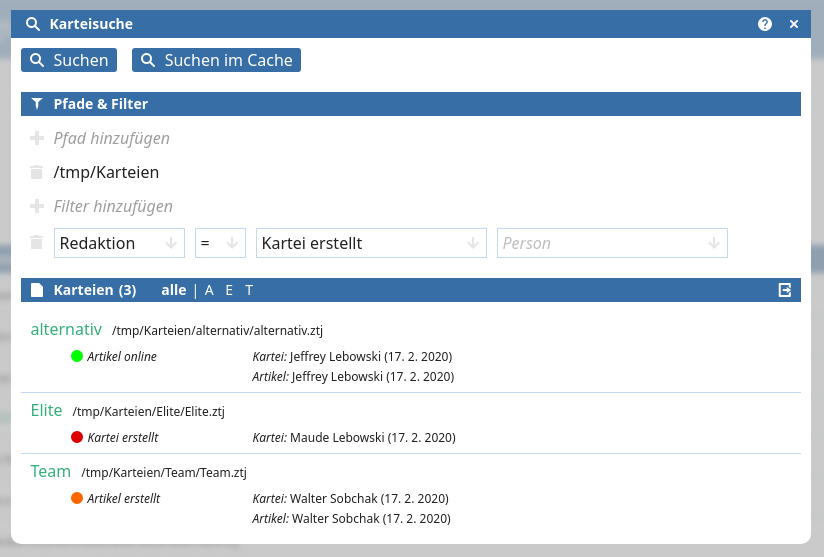
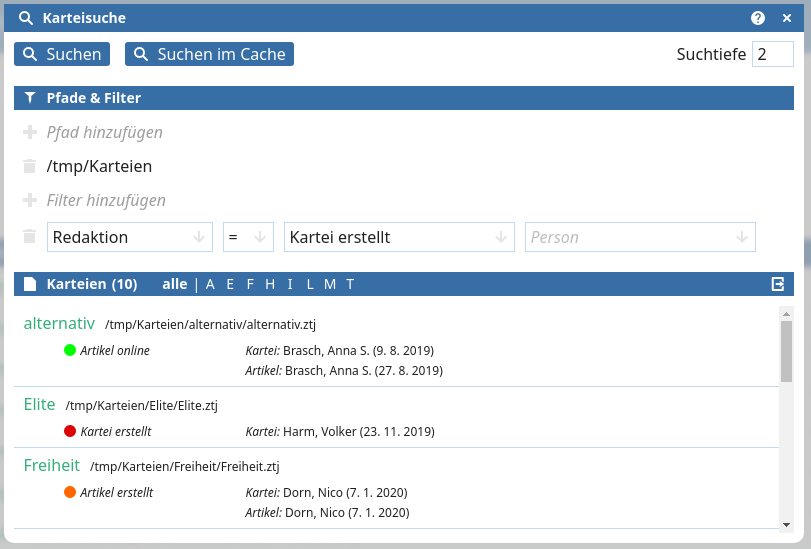
Feature: in der Karteisuche kann nun die Suchtiefe (Rekursion in Unterordner) begrenzt werden, um den Vorgang zu beschleunigen

Changed region(s): [[0.0, 0.0, 1.0, 0.9909]]

diff --git a/js/app/karteisuche.js b/js/app/karteisuche.js
@@ -9,6 +9,8 @@ let karteisuche = {
 		if (!document.getElementById("karteisuche-suche-laeuft").classList.contains("aus")) {
 			return;
 		}
+		// Suchtiefe aus den Optionen übernehmen
+		document.querySelector("#karteisuche-suchenTiefe").value = optionen.data.karteisuche.tiefe;
 		// Cache laden
 		const {ipcRenderer} = require("electron");
 		karteisuche.ztjCache = await ipcRenderer.invoke("ztj-cache-get");
@@ -164,6 +166,13 @@ let karteisuche = {
 			});
 		});
 	},
+	// speichert die Suchttiefe, also die Angaben darüber, wie viele Ordner
+	// in die Tiefe gegangen wird, um nach ZTJ-Dateien zu suchen;
+	//   1 = nur im angegebenen Ordner suchen
+	//   2 = bis zu einen Ordner tief gehen
+	//   3 = bis zu zwei Ordner tief gehen
+	//   ...
+	suchenTiefe: 0,
 	// speichert das Input-Element, das vor dem Start der Suche den Fokus hatte
 	suchenFokus: null,
 	// Suche vorbereiten
@@ -315,6 +324,7 @@ let karteisuche = {
 		// Dateien suchen
 		const fs = require("fs"),
 			fsP = fs.promises;
+		karteisuche.suchenTiefe = parseInt(document.querySelector("#karteisuche-suchenTiefe").value, 10);
 		setTimeout(async () => {
 			karteisuche.ztj = [];
 			if (pfade.length) {
@@ -324,7 +334,7 @@ let karteisuche = {
 					if (exists) {
 						try {
 							await fsP.access(ordner, fs.constants.R_OK); // Lesezugriff auf Basisordner? Wenn kein Zugriff => throw
-							await karteisuche.ordnerParsen(ordner);
+							await karteisuche.ordnerParsen(ordner, 1);
 						} catch (err) { // wahrscheinlich besteht kein Zugriff auf den Pfad
 							karteisuche.suchenAbschluss();
 							dialog.oeffnen({
@@ -584,7 +594,10 @@ let karteisuche = {
 	// findet alle Pfade in einem übergebenen Ordner
 	//   ordner = String
 	//     (Ordner, von dem aus die Suche beginnen soll)
-	ordnerParsen (ordner) {
+	//   suchtiefe = Number
+	//     (Tiefe gezählt vom Startordner aus; Startordner = 1)
+	ordnerParsen (ordner, suchtiefe) {
+		suchtiefe++;
 		return new Promise(async resolve => {
 			try {
 				const fsP = require("fs").promises,
@@ -592,7 +605,7 @@ let karteisuche = {
 				for (let i of files) {
 					const path = require("path"),
 						pfad = path.join(ordner, i);
-					await karteisuche.pfadPruefen(pfad);
+					await karteisuche.pfadPruefen(pfad, suchtiefe);
 				}
 				resolve(true);
 			} catch (err) { // Auslesen des Ordners fehlgeschlagen
@@ -603,7 +616,9 @@ let karteisuche = {
 	// überprüft einen übergebenen Pfad: Ordner oder ZTJ-Datei?
 	//   pfad = String
 	//     (Ordner, von dem aus die Suche beginnen soll)
-	pfadPruefen (pfad) {
+	//   suchtiefe = Number
+	//     (Tiefe gezählt vom Startordner aus; Startordner = 1)
+	pfadPruefen (pfad, suchtiefe) {
 		return new Promise(async resolve => {
 			try {
 				let stats; // Natur des Pfades?
@@ -613,8 +628,9 @@ let karteisuche = {
 					const fsP = require("fs").promises;
 					stats = await fsP.lstat(pfad);
 				}
-				if (stats?.isDirectory()) { // Ordner => parsen
-					await karteisuche.ordnerParsen(pfad);
+				if (stats?.isDirectory() && // Ordner => parsen
+						suchtiefe <= karteisuche.suchenTiefe) { // nur bis zu dieser Verschachtelungstiefe suchen
+					await karteisuche.ordnerParsen(pfad, suchtiefe);
 				} else if (/\.ztj$/.test(pfad)) { // ZTJ-Datei => merken
 					karteisuche.ztj.push({
 						pfad: pfad,

diff --git a/win/handbuch.html b/win/handbuch.html
@@ -3703,6 +3703,8 @@ Mustermann, Erika
 
 						<p>Um die Karteisuche zu starten, muss zunächst mindestens ein <b>Pfad</b> angegeben werden, von dem aus <abbr title="Zettel’s Traum JSON">ZTJ</abbr>-Dateien gesucht werden sollen. Klicken Sie auf <i>Pfad hinzufügen</i>, wird sich ein Dateidialog Ihres Betriebssystems öffnen. Bei einem Pfad handelt es sich um nichts Anderes als um die Wegangabe zu einem Ordner. Wählen Sie im sich öffnenden Dialog also einfach einen Ordner aus, in dem sich Karteien befinden. Von hier nimmt die Suche ihren Anfang. Ihren Anfang, denn gesucht wird immer rekursiv, <abbr title="das heißt">d. h.</abbr> Unterordner werden mit einbezogen.</p>
 
+						<p id="menueApp-karteisucheTiefe">Begrenzt wird die Rekursion in die Unterordner durch die Option <b><i>Suchtiefe</i></b>. Die hier eingetragene Zahl gibt an, wie tief beim Suchen in die Ordnerstruktur eingetaucht wird. Ist die Zahl niedriger, geht die Suche schneller, weil weniger tief gesucht wird. Steht die Option auf <i>1</i> findet keine Rekursion in Unterordner statt. Es werden nur diejenigen Ordner durchsucht, die angegeben wurden (<abbr title="siehe unten">s. u.</abbr>); alle Unterordner werden also ignoriert. Bei <i>2</i> wird eine Ebene tiefer gegangen; es werden also auch Unterordner durchsucht, die direkt im angegebenen Hauptordner liegen. Bei <i>3</i> werden auch Unterordner in den Unterordnern der Hauptordner durchsucht <abbr title="und so weiter">usw.</abbr></p>
+
 						<p>Allein einen Pfad anzugeben, reicht im Grunde schon aus. Sie können nun auf den <b>Button <i>Suchen</i></b> klicken: Alle Ordner und Unterordner in dem angegebenen Pfad werden nun durchsucht. Das basale Filterkriterium einer Karteisuche ist, dass eine Datei auf <span class="datei">*.ztj</span> endet. Zusätzlich wird überprüft, ob es sich bei den gefundenen Dateien wirklich um <abbr title="Zettel’s Traum JSON">ZTJ</abbr>-Dateien handelt oder ob sie nur so heißen. (Sie werden dafür kurz geöffnet.) Das Ergebnis der Suche wird dann im unteren Teil des Fensters unter dem Block <i>Karteien</i> angezeigt: eine Liste mit <abbr title="Zettel’s Traum JSON">ZTJ</abbr>-Dateien, die der Liste in der <a href="#menueApp-neuesFenster">Startansicht der App</a> ähnelt. Die Dateien öffnen sich auf Klick in einem neuen Programmfenster.</p>
 
 						<p>Falls Sie nicht die Kartei, sondern lieber den <b>Ordner öffnen</b> möchten, in dem sie liegt, führen Sie auf dem entsprechenden Listeneintrag <i>Rechtsklick &gt; Ordner öffnen</i> aus.</p>

diff --git a/index.html b/index.html
@@ -811,7 +811,11 @@
 				>Karteisuche<a href="#" class="icon-link icon-handbuch" title="Abschnitt im Handbuch öffnen" data-handbuch="menueApp-karteisuche"> </a><a href="#" class="overlay-schliessen icon-link icon-schliessen" title="Fenster schließen (Esc)"> </a></h2>
 			<div id="karteisuche-cont">
 				<p><input type="button" value="Suchen" id="karteisuche-suchen"
-					><input type="button" value="Suchen im Cache" id="karteisuche-suchenCache" class="aus"></p>
+					><input type="button" value="Suchen im Cache" id="karteisuche-suchenCache" class="aus"
+					><span id="karteisuche-suchenRechts"
+						><label for="karteisuche-suchenTiefe">Suchtiefe</label><input type="number" value="2" min="1" max="9" id="karteisuche-suchenTiefe"
+					></span
+				></p>
 				<h3><span class="icon-h icon-filter"> </span>Pfade &amp; Filter</h3>
 				<div id="karteisuche-filterblock">
 					<div id="karteisuche-pfade"></div>

diff --git a/js/app/init-app.js b/js/app/init-app.js
@@ -429,6 +429,10 @@ window.addEventListener("load", async () => {
 	// Karteisuche
 	document.getElementById("karteisuche-suchen").addEventListener("click", () => karteisuche.suchenPrep());
 	document.getElementById("karteisuche-suchenCache").addEventListener("click", () => karteisuche.suchenPrepZtj([]));
+	document.getElementById("karteisuche-suchenTiefe").addEventListener("input", function() {
+		optionen.data.karteisuche.tiefe = parseInt(this.value, 10);
+		optionen.speichern();
+	});
 	document.querySelector("#karteisuche-cont h3").addEventListener("click", () => karteisuche.filterUmschalten());
 	document.getElementById("karteisuche-add-filter").addEventListener("click", () => karteisuche.filterHinzufuegen());
 	document.getElementById("karteisuche-speichern").addEventListener("click", evt => {

diff --git a/win/changelog.html b/win/changelog.html
@@ -55,13 +55,13 @@
 				<h3>Neue Funktionen</h3>
 
 				<ul>
-					<li></li>
+					<li><a href="#menueApp-karteisuche" class="link-handbuch">Karteisuche</a>: Um den Suchvorgang zu beschleunigen, kann nun die <a href="#menueApp-karteisucheTiefe" class="link-handbuch">Suchtiefe</a> begrenzt werden.</li>
 				</ul>
 
 				<h3>Verbesserungen</h3>
 
 				<ul>
-					<li><a href="#menueApp-karteisuche" class="link-handbuch">Karteisuche</a>: Der Suchvorgang wurde beschleunigt.</li>
+					<li><a href="#menueApp-karteisuche" class="link-handbuch">Karteisuche</a>: Der Suchvorgang wurde unabhängig von der Suchtiefe beschleunigt.</li>
 				</ul>
 
 				<h3>Updates</h3>

diff --git a/css/app/overlays-karteisuche.css b/css/app/overlays-karteisuche.css
@@ -94,6 +94,22 @@
 	margin-top: 20px;
 }
 
+#karteisuche-cont > p {
+	position: relative;
+}
+
+#karteisuche-suchenRechts {
+	position: absolute;
+	right: 0;
+	top: -1px;
+}
+
+#karteisuche-suchenTiefe {
+	margin-left: 5px;
+	padding: 0 5px;
+	width: 30px;
+}
+
 #karteisuche-filterblock {
 	padding: 10px 0 0 0;
 	transition: height .3s ease, padding-top .3s ease;

diff --git a/js/app/optionen.js b/js/app/optionen.js
@@ -229,6 +229,7 @@ let optionen = {
 		karteisuche: {
 			pfade: [], // Pfade, in denen gesucht wird
 			filter: [], // Filter, die zuletzt verwendet wurden
+			tiefe: 2, // Suchtiefe, also Anzahl der Ordner, die in der Tiefe gesucht wird
 		},
 		// Datenfelder im Einfüge-Fenster der Kopierfunktion
 		kopieren: {
